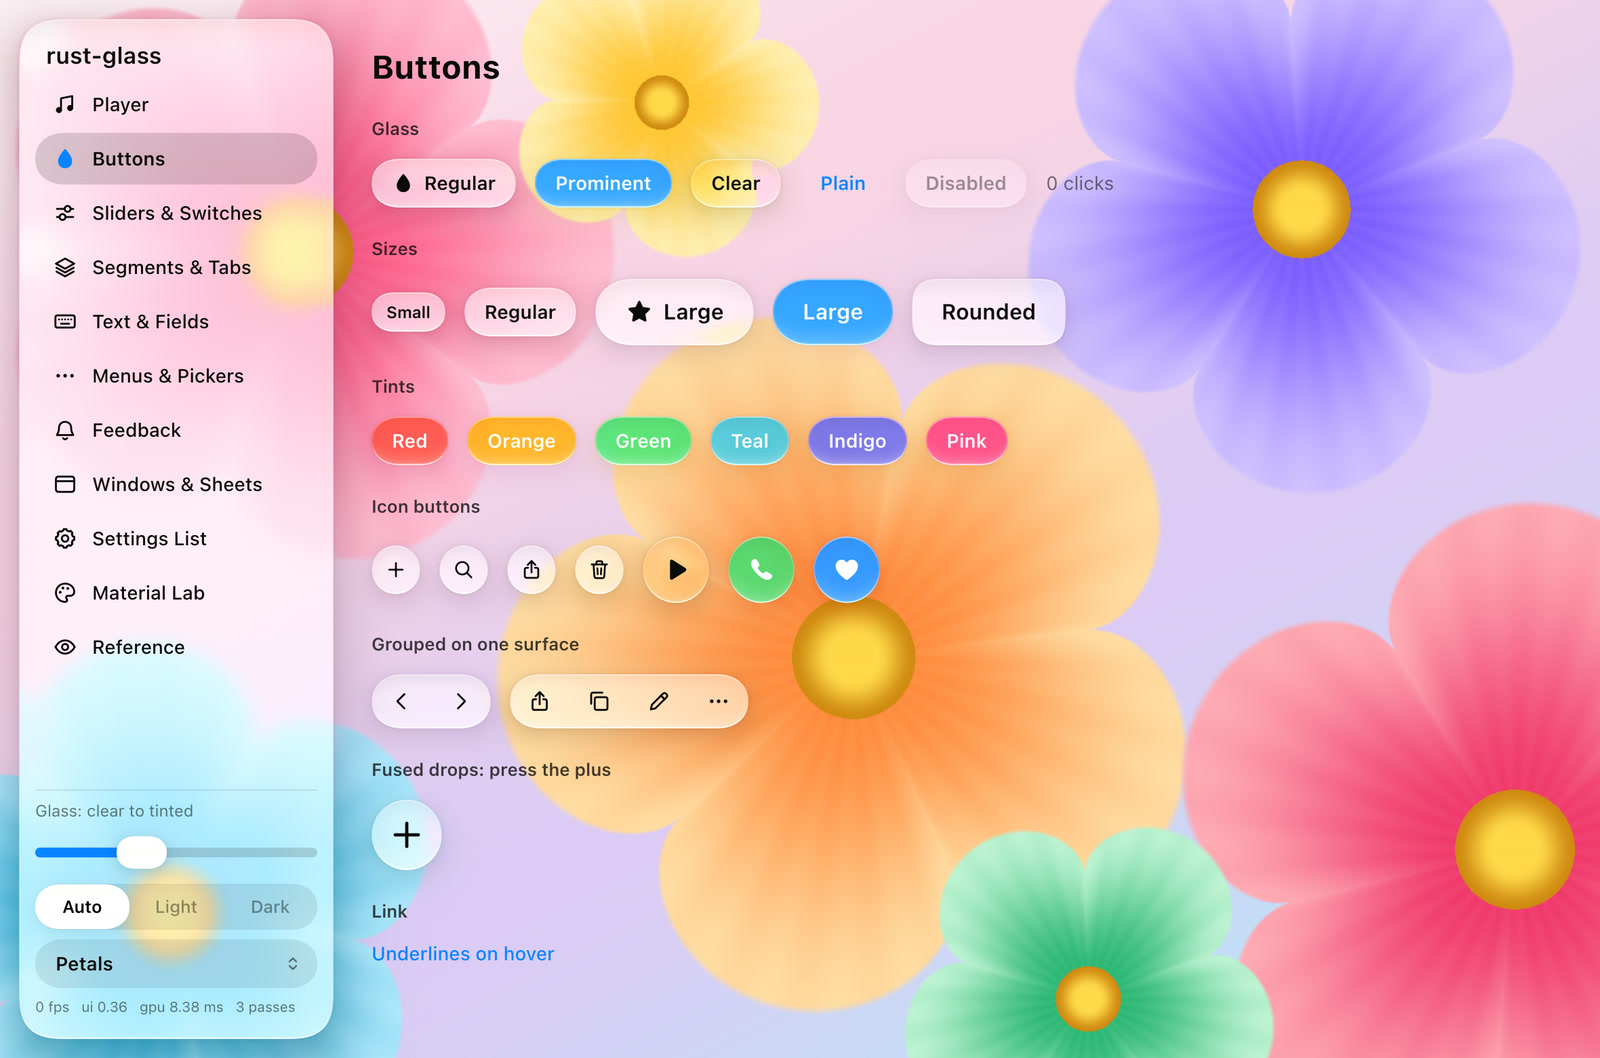
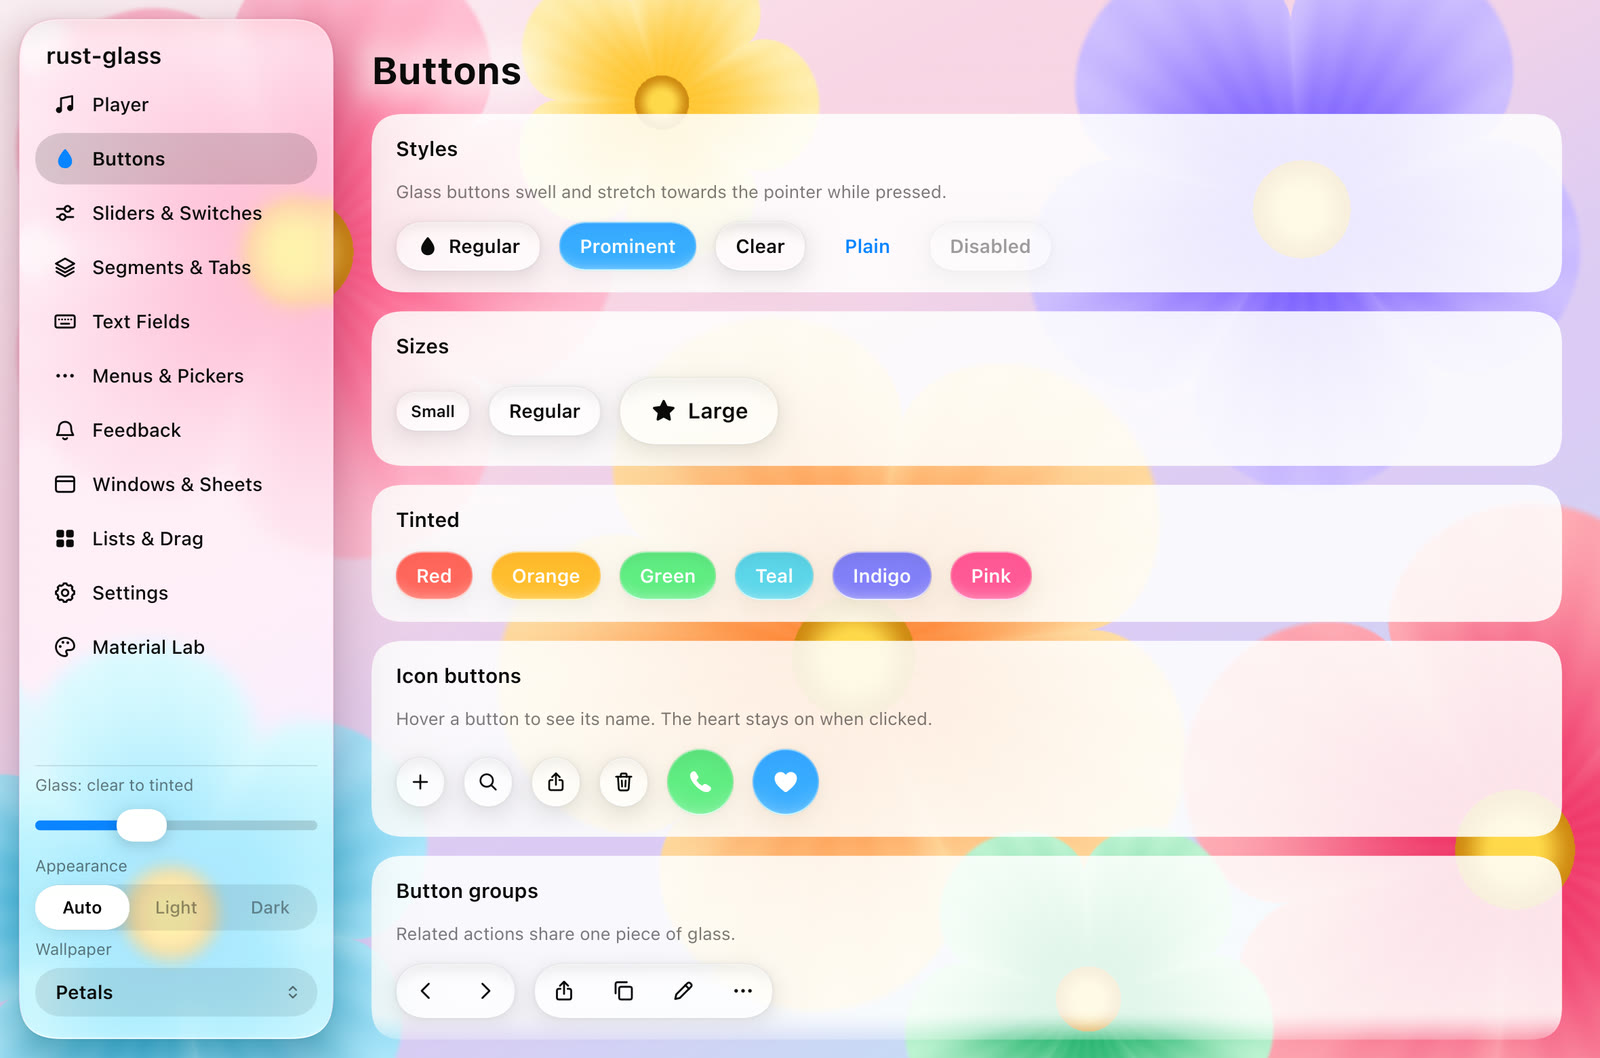
Render the preview pictures and clips again
The pictures show the rebuilt showcase, with new ones of the album view
and the Lists page. The Reference picture is gone with its page. The
preview run scrolls widgets into view before pressing them and writes
the crop rectangle of each clip, so the GIFs follow the layout.

diff --git a/examples/showcase/src/capture.rs b/examples/showcase/src/capture.rs
@@ -103,6 +103,16 @@ impl Rig {
         }
     }
 
+    /// Scrolls the page until the marked widget is in the upper part of the
+    /// window.
+    fn reveal(&mut self, name: &str) {
+        let below = self.mark(name).y - self.host.ctx.screen.height() * 0.4;
+        if below > 0.0 {
+            let over = vec2(self.mark(name).x, self.host.ctx.screen.height() * 0.5);
+            self.scroll(over, below);
+        }
+    }
+
     fn scroll(&mut self, over: Vec2, amount: f32) {
         self.move_to(over);
         self.step(&[Event::Scroll(vec2(0.0, -amount))]);
@@ -163,6 +173,7 @@ pub fn pages(dir: &str) -> Result<(), String> {
     shot(&mut rig, "press")?;
 
     rig.open(Page::Buttons, PETALS);
+    rig.reveal("split button");
     rig.click(rig.mark("split button"));
     rig.wait(7);
     shot(&mut rig, "split")?;
@@ -319,6 +330,7 @@ pub fn preview(dir: &str) -> Result<(), String> {
     }
 
     rig.open(Page::Buttons, PETALS);
+    rig.reveal("split button");
     rig.click(rig.mark("split button"));
     rig.settle(2.0);
     save(&rig, "buttons-split")?;
@@ -333,7 +345,23 @@ pub fn preview(dir: &str) -> Result<(), String> {
     rig.settle(1.5);
     save(&rig, "menu")?;
 
-    // Clips.
+    rig.open(Page::Player, DUNES);
+    rig.scroll(rig.mark("player content"), -1000.0);
+    rig.click(rig.mark("first album"));
+    rig.settle(2.0);
+    save(&rig, "player-album")?;
+    rig.click(rig.mark("album back"));
+    rig.settle(2.0);
+
+    // Clips. Each also gets the rectangle to crop it to, in pixels, in
+    // `crops.txt`: name, x, y, width and height.
+    let mut crops = String::new();
+    let mut crop = |rig: &Rig, name: &str, area: Rect| {
+        let scale = rig.host.ctx.pixels_per_point;
+        let (min, size) = (area.min * scale, area.size() * scale);
+        let even = |v: f32| (v / 2.0).round() as i32 * 2;
+        crops += &format!("{name} {} {} {} {}\n", even(min.x), even(min.y), even(size.x), even(size.y));
+    };
     let clip = |rig: &mut Rig, name: &str, frames: usize, events: &mut dyn FnMut(usize) -> Vec<Event>| {
         let folder = format!("{dir}/frames-{name}");
         std::fs::create_dir_all(&folder).map_err(|e| e.to_string())?;
@@ -358,6 +386,7 @@ pub fn preview(dir: &str) -> Result<(), String> {
     let tabs = rig.mark("player tab bar");
     let tab = |i: usize| vec2(tabs.x - 154.0 + 77.0 * i as f32, tabs.y);
     let keys = [tab(0), tab(3), tab(1), tab(4), tab(2)];
+    crop(&rig, "tabs", rig.rect("player tab bar").expand2(vec2(40.0, 34.0)));
     clip(&mut rig, "tabs", 210, &mut |i| {
         let mut events = vec![Event::PointerMoved(along(&keys, i, 20, 34.0))];
         match i {
@@ -369,7 +398,12 @@ pub fn preview(dir: &str) -> Result<(), String> {
     })?;
 
     rig.open(Page::Buttons, PETALS);
+    rig.reveal("split button");
     let plus = rig.mark("split button");
+    let button = rig.rect("split button");
+    // The button and its four drops, which open to the right.
+    let drops = Rect::from_min_size(button.min, vec2(button.width() * 5.0 + 48.0, button.height()));
+    crop(&rig, "split", drops.expand2(vec2(24.0, 24.0)));
     clip(&mut rig, "split", 210, &mut |i| match i {
         0 => vec![Event::PointerMoved(plus)],
         12 | 86 | 140 | 158 => vec![Event::PointerDown],
@@ -380,6 +414,7 @@ pub fn preview(dir: &str) -> Result<(), String> {
     rig.open(Page::Controls, AURORA);
     let keys: Vec<Vec2> =
         [0.6, 0.95, 0.15, 0.8, 0.4, 0.6].iter().map(|v| rig.slider_point("volume slider", *v)).collect();
+    crop(&rig, "slider", rig.rect("volume slider").expand2(vec2(30.0, 22.0)));
     clip(&mut rig, "slider", 270, &mut |i| {
         let mut events = vec![Event::PointerMoved(along(&keys, i, 36, 32.0))];
         match i {
@@ -389,5 +424,5 @@ pub fn preview(dir: &str) -> Result<(), String> {
         }
         events
     })?;
-    Ok(())
+    std::fs::write(format!("{dir}/crops.txt"), crops).map_err(|e| e.to_string())
 }

diff --git a/CHANGELOG.md b/CHANGELOG.md
@@ -16,6 +16,7 @@ All notable changes are listed here. Format: Keep a Changelog.
 - API docs for every public item. Pushes to dev fail when the docs have warnings.
 
 ### Changed
+- New preview pictures and clips of the rebuilt showcase, including the album view and the Lists page. The preview run writes the crop of each clip next to its frames.
 - Breaking: each widget has its own module, such as `widgets::menu`, `widgets::dialog` and `widgets::toggle`. The old `bars`, `controls`, `overlay`, `gel` and `dnd` modules are gone. The prelude still exports every widget.
 - Breaking: `Checkbox`, `Radio`, `ProgressBar`, `Gauge`, `Spinner`, `Image`, `Collapsing`, `ColorPicker`, `Stepper`, `SplitButton`, `TabBar` and `ComboBox` are created with `new` and builder methods instead of struct literals. `Row` is now `SettingsRow`.
 - Breaking: renamed modules `anim` to `animation`, `geom` to `geometry`, `access` to `accessibility` and `icons` to `icon`.

diff --git a/TODO.md b/TODO.md
@@ -17,6 +17,7 @@ Short-term work. The long-term plan is in [ROADMAP.md](ROADMAP.md).
 - [ ] Image tests against stored reference renders
 
 ## Done (recent)
+- [x] Preview pictures and clips rendered again from the new showcase (2026-11-26)
 - [x] Content blur during transitions: overlays, showcase pages and the album view (2026-11-26)
 - [x] Elements morph from one view into another with `Context::morph` (2026-11-26)
 - [x] Focus from the keyboard or a screen reader scrolls the widget into view (2026-11-26)
